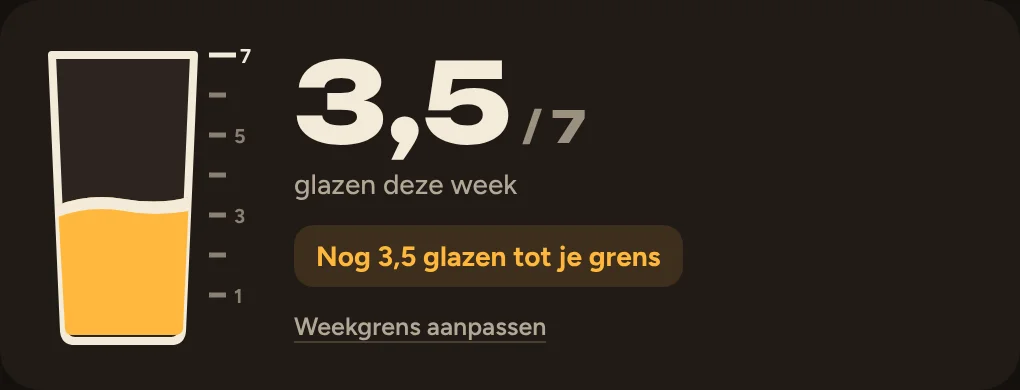
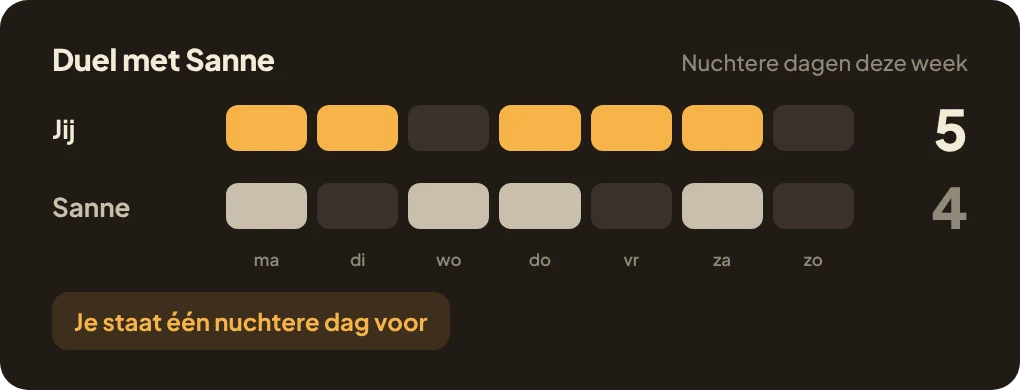
Prijs vanaf 500 euro, geen telefoon, Zuipwijs als duel en de film apart geladen
- Aanpak: een eerste opdracht kost vanaf € 500; het gesprek is bij jou op de zaak (geen telefoon)
- Begin: titel en beschrijving noemen AI, ondernemers en Haren bij Groningen
- Structured data: volledig adres, werkgebied, oprichter (voornaam), KvK, btw en prijs
- Zuipwijs: een duel om nuchtere dagen in plaats van glazen tot je grens, met fictieve waarden
- De film en de dialoog laden pas bij de eerste klik of hover: 26 kB minder JavaScript bij elke pagina

Claude-Session: https://claude.ai/code/session_01SC8LXLQHtgMqn1isJfbCST

diff --git a/src/components/werk/ProjectCard.tsx b/src/components/werk/ProjectCard.tsx
@@ -1,23 +1,33 @@
-import { useState, type ReactNode } from 'react';
+import { Suspense, lazy, useState, type ReactNode } from 'react';
 import type { Project } from '../../lib/projects';
 import { cn } from '../../lib/utils';
+import { ErrorBoundary } from '../ErrorBoundary';
 import { Icon } from '../ui/Icon';
 import { Stat } from '../ui/Stat';
-import { ProjectFilm } from './ProjectFilm';
+
+// The film (and its dialog dependencies) is fetched on first intent, like the contact card: hover, focus or open.
+const loadFilm = () => import('./ProjectFilm');
+const ProjectFilm = lazy(() => loadFilm().then((m) => ({ default: m.ProjectFilm })));
 
 const meta = 'text-xs font-semibold tracking-wide-xl uppercase text-subtle dark:text-slate-400';
 
 /** The opdracht's image as a button that opens its film; the first scene loads as soon as the pointer or focus arrives. */
 function FilmTrigger({ project, children }: { project: Project; children: ReactNode }) {
   const [open, setOpen] = useState(false);
+  const [mounted, setMounted] = useState(false);
   const preload = () => {
     if (project.film?.[0]) new Image().src = project.film[0].image;
+    // A failed preload is tried again when the film is opened.
+    loadFilm().catch(() => {});
   };
   return (
     <>
       <button
         type="button"
-        onClick={() => setOpen(true)}
+        onClick={() => {
+          setMounted(true);
+          setOpen(true);
+        }}
         onPointerEnter={preload}
         onFocus={preload}
         className="group relative block w-full text-left rounded-2xl"
@@ -30,7 +40,14 @@ function FilmTrigger({ project, children }: { project: Project; children: ReactN
           Bekijk hoe het werkt
         </span>
       </button>
-      <ProjectFilm project={project} open={open} onOpenChange={setOpen} />
+      {/* If the film can't load (offline, or a stale tab after a deploy), the click does nothing rather than break the page */}
+      {mounted && (
+        <ErrorBoundary onError={() => setMounted(false)}>
+          <Suspense fallback={null}>
+            <ProjectFilm project={project} open={open} onOpenChange={setOpen} />
+          </Suspense>
+        </ErrorBoundary>
+      )}
     </>
   );
 }

diff --git a/index.html b/index.html
@@ -22,12 +22,33 @@
         "url": "https://www.studiokopwerk.nl",
         "logo": "https://www.studiokopwerk.nl/favicon.png",
         "image": "https://www.studiokopwerk.nl/og/begin.png",
-        "description": "Goed in je vak, maar vastgelopen in het digitale eromheen? Wij maken het eenvoudig, met AI en samen met jou. Zien wat wérkt.",
+        "description": "Goed in je vak, maar vastgelopen in het digitale eromheen? Studio Kopwerk uit Haren bij Groningen maakt het eenvoudig met AI: werk dat steeds terugkomt, je website en je programma's.",
         "email": "hallo@studiokopwerk.nl",
         "address": {
           "@type": "PostalAddress",
+          "streetAddress": "Oosterweg 24",
+          "postalCode": "9751 PH",
+          "addressLocality": "Haren",
+          "addressRegion": "Groningen",
           "addressCountry": "NL"
         },
+        "areaServed": {
+          "@type": "Country",
+          "name": "Nederland"
+        },
+        "founder": {
+          "@type": "Person",
+          "name": "Martijn",
+          "jobTitle": "Oprichter",
+          "url": "https://www.studiokopwerk.nl/over"
+        },
+        "vatID": "NL004525964B92",
+        "identifier": {
+          "@type": "PropertyValue",
+          "propertyID": "KvK",
+          "value": "42154955"
+        },
+        "priceRange": "Vanaf € 500",
         "knowsAbout": [
           "Werk dat logisch loopt, van aanvraag tot factuur",
           "Eén plek waar je alles terugvindt",

diff --git a/src/routes.tsx b/src/routes.tsx
@@ -22,7 +22,7 @@ export interface PageRoute {
 }
 
 const siteDescription =
-  'Goed in je vak, maar vastgelopen in het digitale eromheen? Wij maken het eenvoudig, met AI en samen met jou. Zien wat wérkt.';
+  "Goed in je vak, maar vastgelopen in het digitale eromheen? Studio Kopwerk uit Haren bij Groningen maakt het eenvoudig met AI: werk dat steeds terugkomt, je website en je programma's.";
 
 /**
  * Every page is a concrete path, so the build can prerender each one to its own HTML file.
@@ -32,7 +32,7 @@ const siteDescription =
  */
 export function buildRoutes(shown: Project[]): PageRoute[] {
   const home: PageRoute = {
-    meta: { path: '/', title: 'Studio Kopwerk · Zien wat wérkt', description: siteDescription },
+    meta: { path: '/', title: 'Studio Kopwerk · Zien wat wérkt · AI voor ondernemers in Groningen', description: siteDescription },
     Page: Home,
   };
   const aanpak: PageRoute = {
@@ -40,7 +40,7 @@ export function buildRoutes(shown: Project[]): PageRoute[] {
       path: '/aanpak',
       title: 'Aanpak · Studio Kopwerk',
       description:
-        'Hoe we werken: AI maakt snel een eerste versie, samen kijken we wat werkt en jij beslist wat blijft.',
+        'Hoe we werken: AI maakt snel een eerste versie, samen kijken we wat werkt en jij beslist wat blijft. Een vaste prijs, vanaf € 500.',
     },
     Page: Aanpak,
     // The proof that it works, once /werk exists

diff --git a/src/pages/Aanpak.tsx b/src/pages/Aanpak.tsx
@@ -101,8 +101,8 @@ export function Aanpak() {
         <Rondgang className="my-4" />
         {/* In the order it happens: the talk, the proposal, the first version, then real data only if you want */}
         <p>
-          Het begint met een vrijblijvend gesprek, aan de telefoon of bij jou op de zaak. Daarna krijg je een voorstel met
-          een vaste prijs.
+          Het begint met een vrijblijvend gesprek, bij jou op de zaak. Daarna krijg je een voorstel met een vaste prijs.
+          Een eerste opdracht kost vanaf €&nbsp;500.
         </p>
         <p>
           Dan maakt AI in korte tijd een eerste versie, met voorbeeldgegevens. Je hoeft er zelf geen verstand van te

diff --git a/src/lib/kleine-dingen.ts b/src/lib/kleine-dingen.ts
@@ -32,7 +32,7 @@ export const kleineDingen: KleinDing[] = [
     tekst:
       'Zie in één oogopslag hoe je week ervoor staat. Daag je vrienden uit voor een duel: wie haalt de meeste nuchtere dagen? Elke nuchtere dag is een streepje. Winnen voelt goed.',
     beeld: zuipwijs,
-    alt: 'Zuipwijs: 3,5 van 7 glazen deze week, nog 3,5 glazen tot je grens. Met fictieve waarden.',
+    alt: 'Zuipwijs: een duel met Sanne om de meeste nuchtere dagen deze week. Jij 5, Sanne 4: je staat één nuchtere dag voor. Met fictieve waarden.',
     grond: 'donker',
   },
   {

diff --git a/src/entry-server.test.tsx b/src/entry-server.test.tsx
@@ -9,7 +9,7 @@ describe('prerendering', () => {
     const { html, head } = render('/');
     expect(html).toMatch(/<h1[^>]*id="hero-title"/);
     expect(html).toContain('Vertel waar het knelt');
-    expect(head).toContain('<title>Studio Kopwerk · Zien wat wérkt</title>');
+    expect(head).toContain('<title>Studio Kopwerk · Zien wat wérkt · AI voor ondernemers in Groningen</title>');
     expect(head).toContain('<link rel="canonical" href="https://www.studiokopwerk.nl/" />');
   });
 
